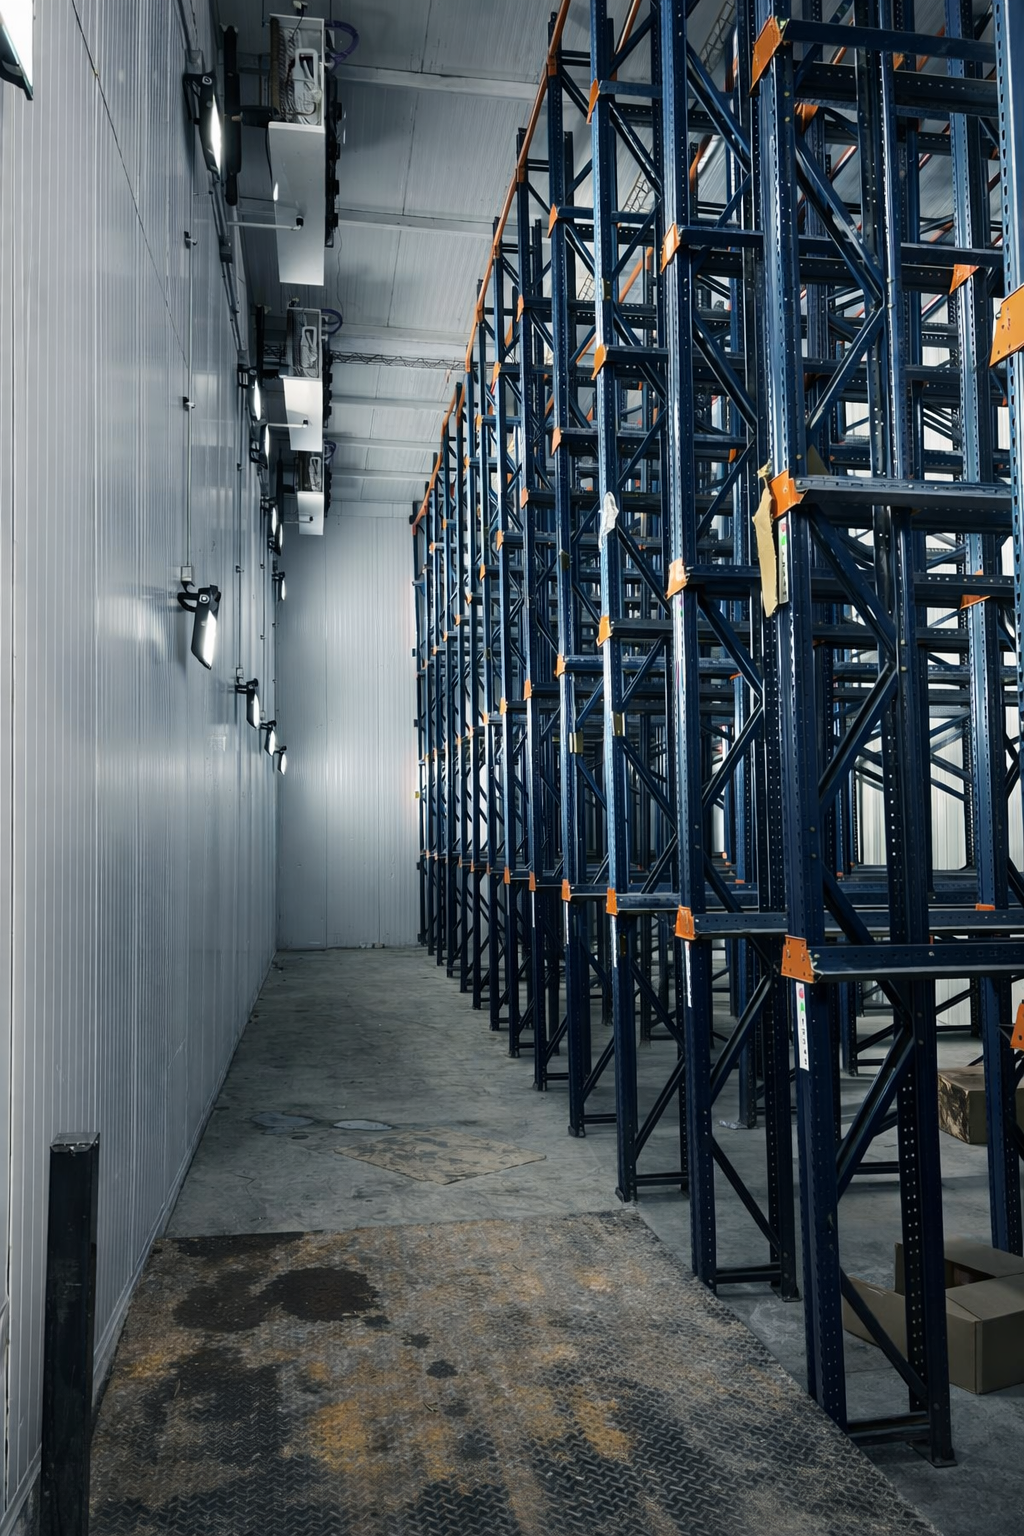
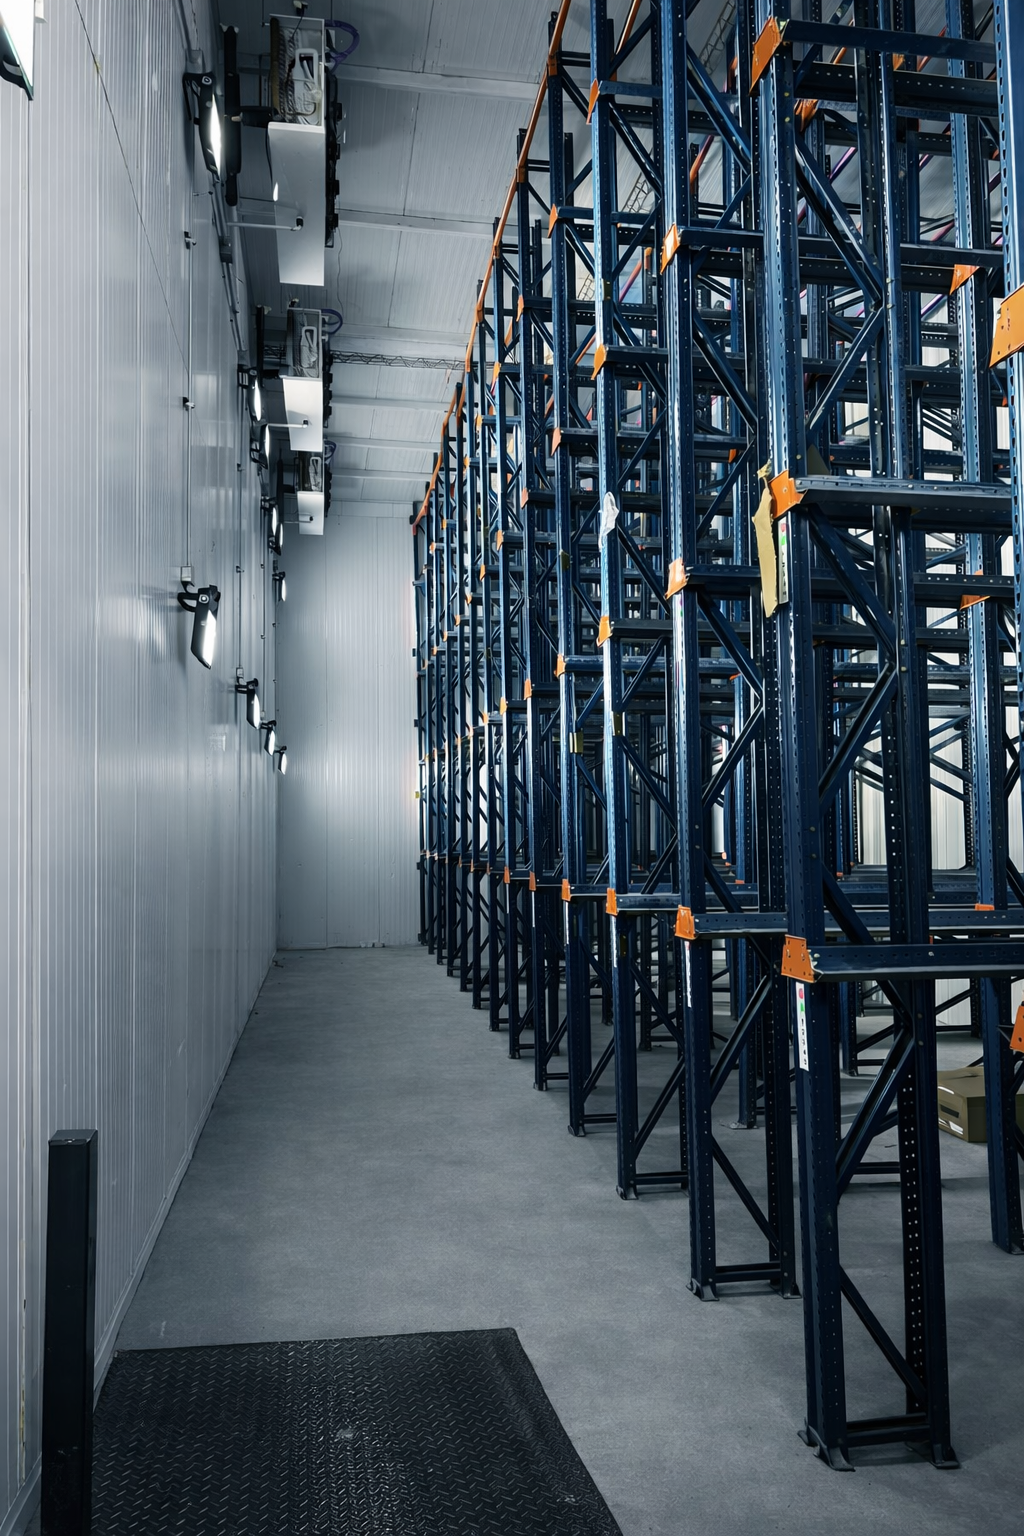
.

diff --git a/styles.css b/styles.css
@@ -866,7 +866,7 @@ textarea {
   box-shadow: var(--shadow-lg);
   background:
     linear-gradient(180deg, rgba(6, 19, 33, 0.08), rgba(6, 19, 33, 0.46)),
-    url("img/deposito.avif") center/cover no-repeat;
+    url("img/1.png") center/cover no-repeat;
 }
 
 .media-card::after {

diff --git a/index.html b/index.html
@@ -283,7 +283,7 @@
         </div>
       </section>
 
-      <section class="section section--alt" id="servicios">
+      <section class="section" id="servicios">
         <div class="container">
           <div class="section-head reveal">
             <div>
